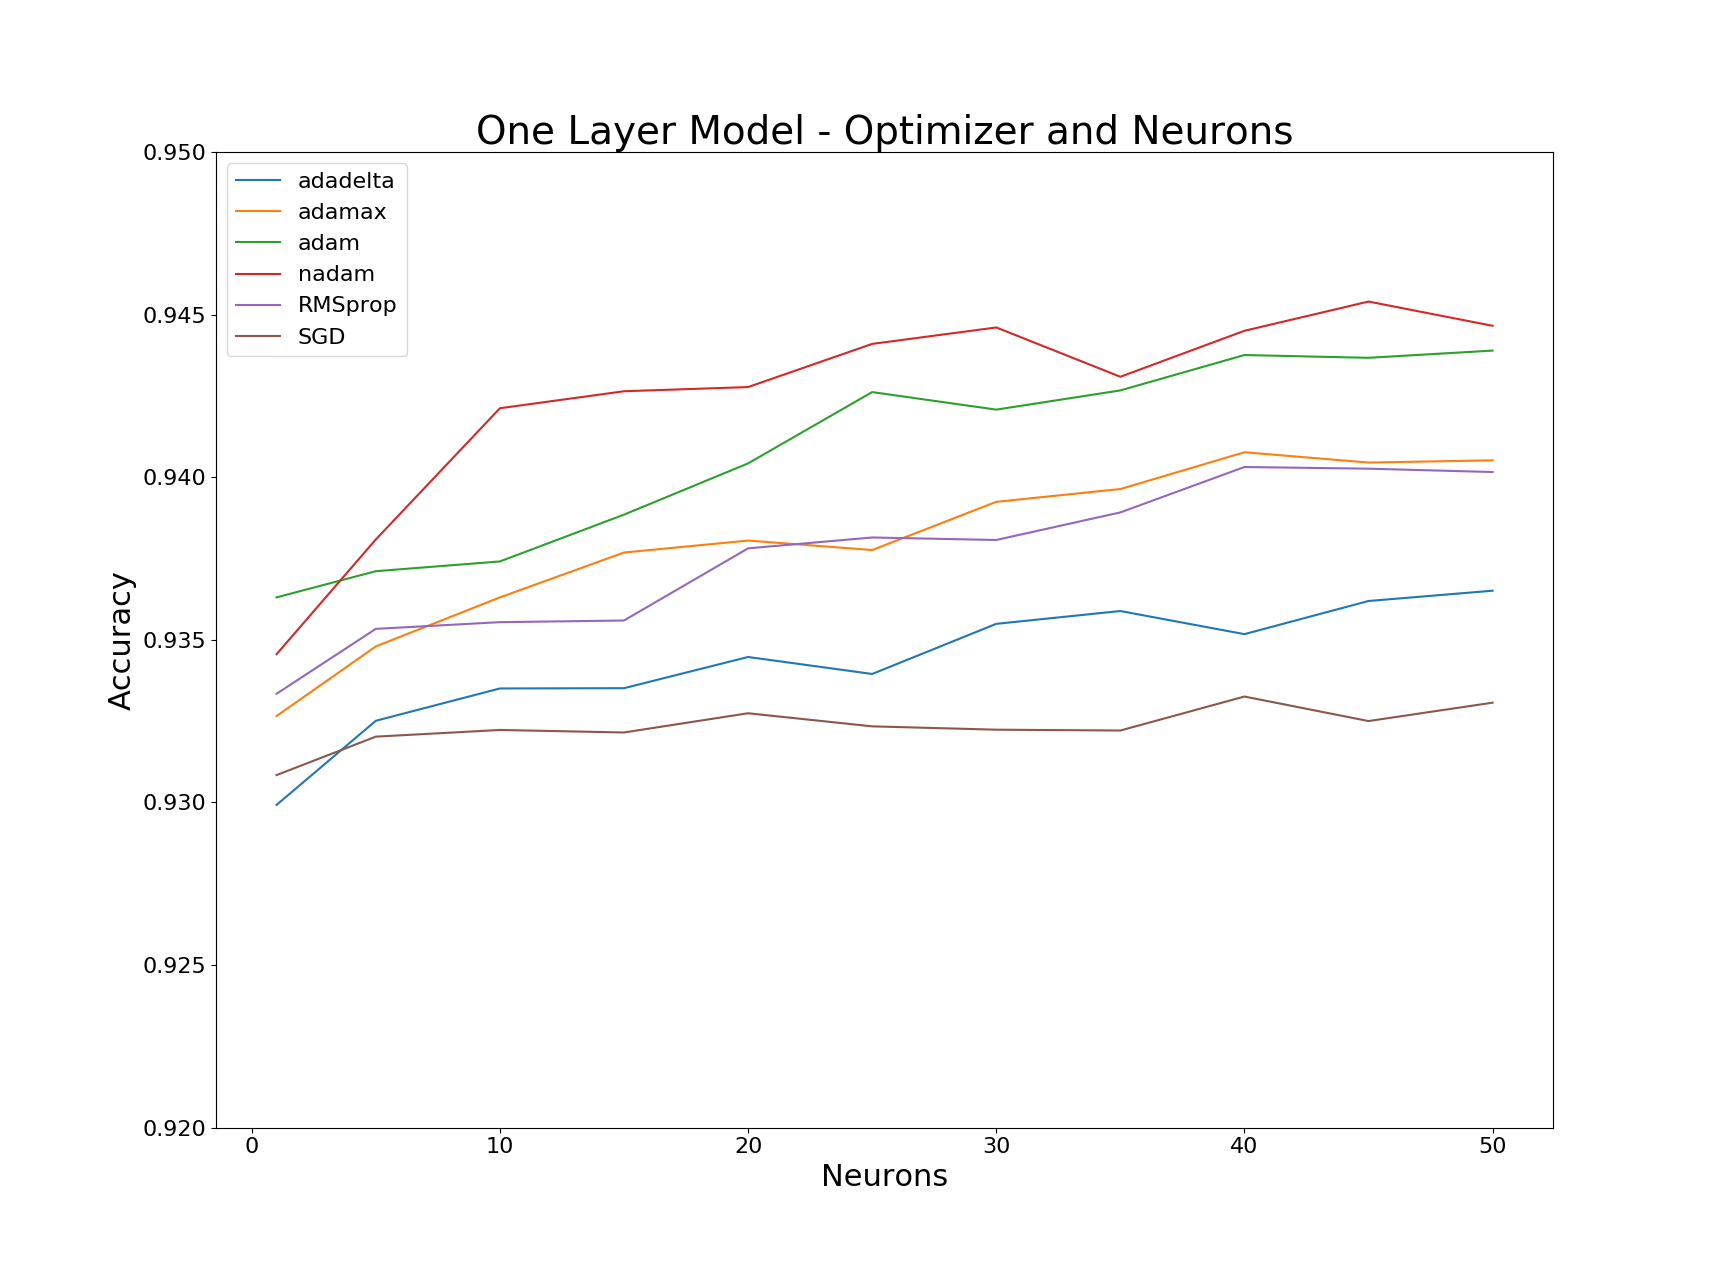
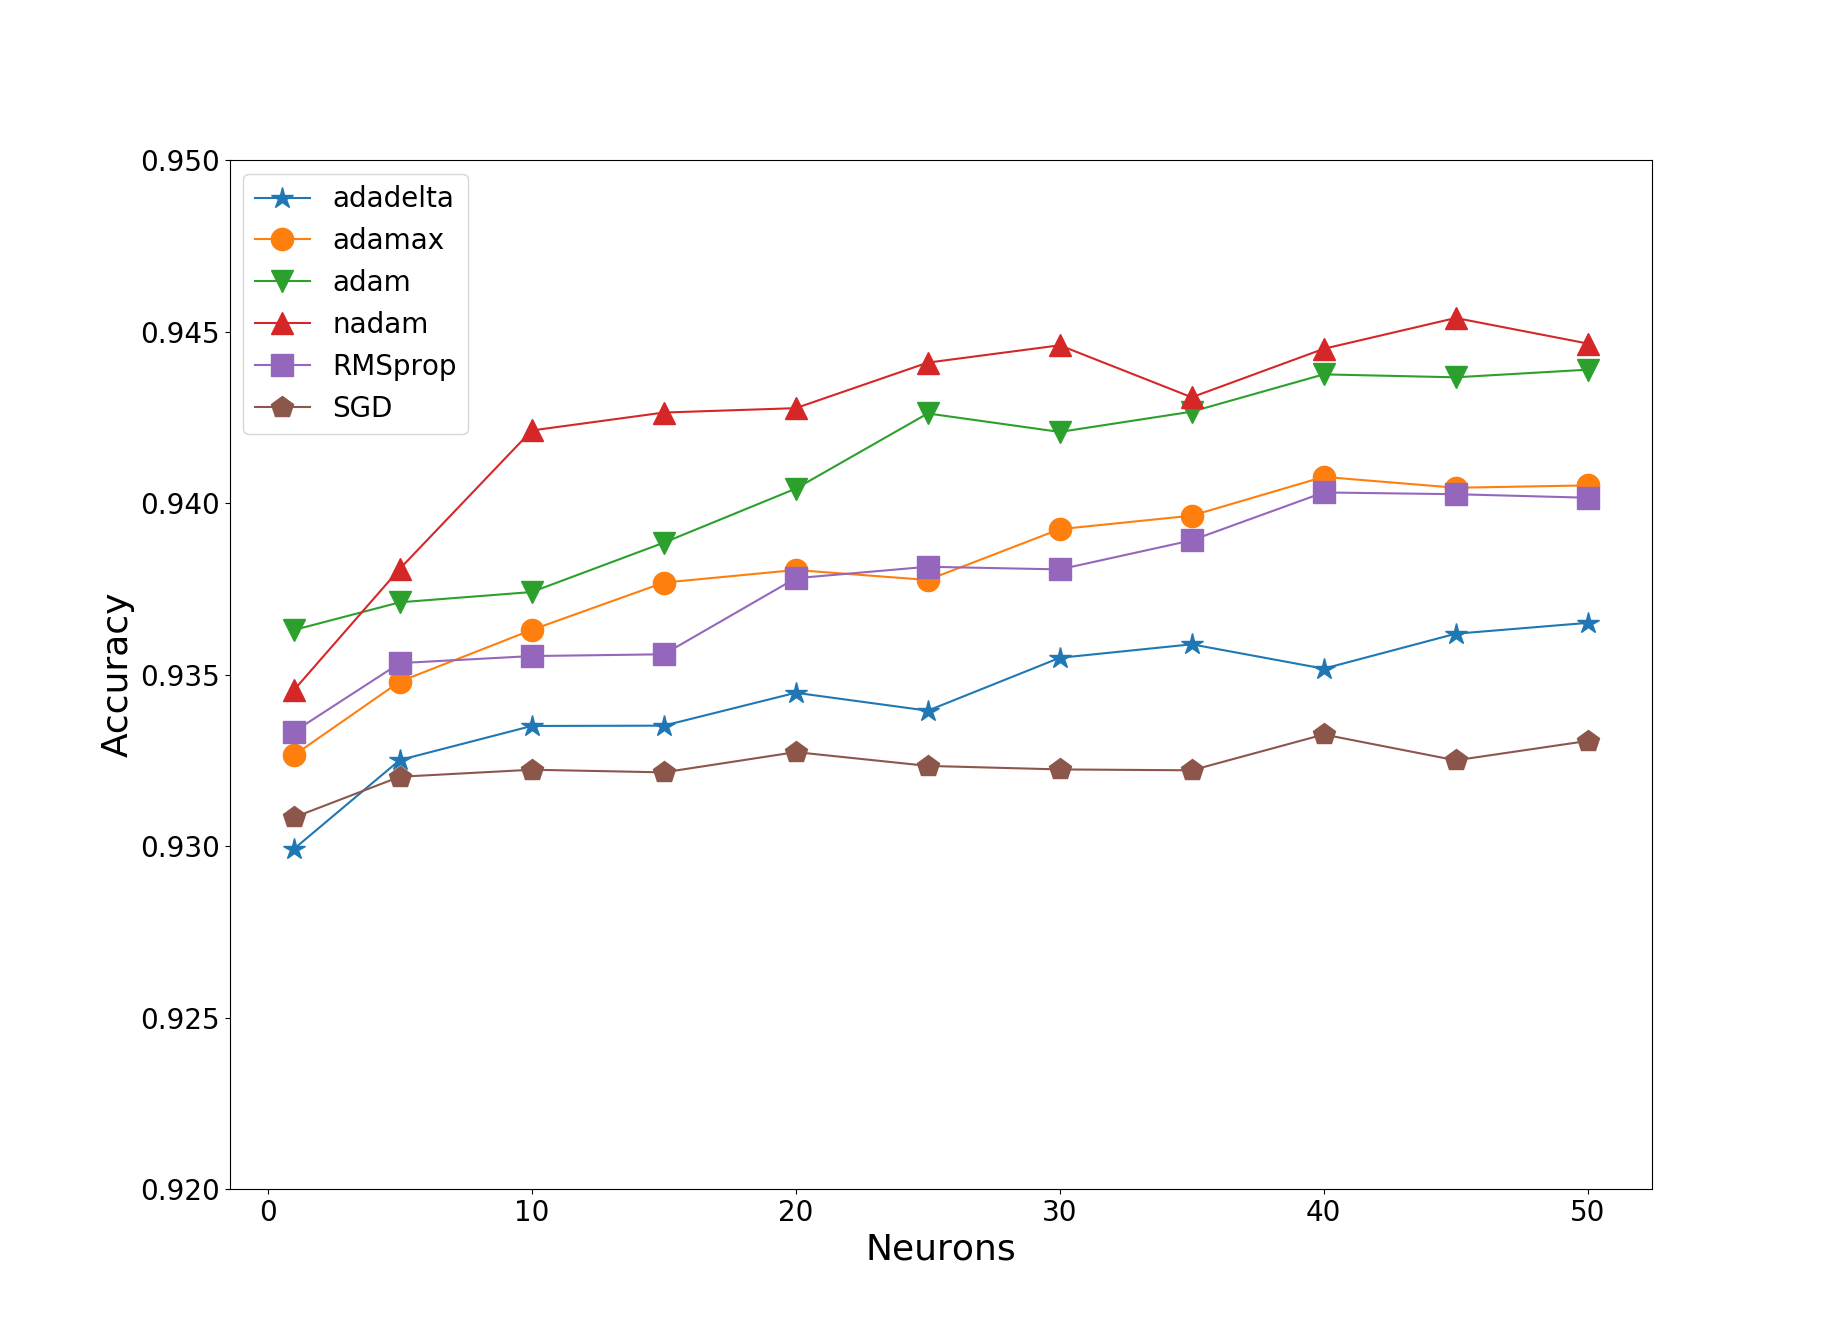
redid graph scripts and figures

diff --git a/Visualization/neurons_acc_2d.py b/Visualization/neurons_acc_2d.py
@@ -1,5 +1,6 @@
 import pandas
 import matplotlib.pyplot as plt
+from matplotlib.lines import Line2D
 from mpl_toolkits.mplot3d import axes3d
 from matplotlib import cm
 from pylab import meshgrid
@@ -44,21 +45,23 @@ def main():
     SGD_neurons = SGD_df.get("param_neurons")
     SGD_score = SGD_df.get("mean_test_score")
 
+
+
     #create line for each optimizer
-    adadelta = plt.plot(adadelta_neurons, adadelta_score, label='adadelta')
-    adamax = plt.plot(adamax_neurons, adamax_score, label='adamax')
-    adam = plt.plot(adam_neurons, adam_score, label='adam')
-    nadam = plt.plot(nadam_neurons, nadam_score, label='nadam')
-    RMSprop = plt.plot(RMS_neurons, RMS_score, label='RMSprop')
-    SGD = plt.plot(SGD_neurons, SGD_score, label='SGD')
+    adadelta = plt.plot(adadelta_neurons, adadelta_score, marker='*', markersize=16, label='adadelta')
+    adamax = plt.plot(adamax_neurons, adamax_score ,marker='o', markersize=16, label='adamax')
+    adam = plt.plot(adam_neurons, adam_score, marker='v', markersize=16, label='adam')
+    nadam = plt.plot(nadam_neurons, nadam_score, marker='^', markersize=16, label='nadam')
+    RMSprop = plt.plot(RMS_neurons, RMS_score, marker='s', markersize=16, label='RMSprop')
+    SGD = plt.plot(SGD_neurons, SGD_score, marker='p', markersize=16, label='SGD')
 
     #plot formatting
-    plt.legend(loc='upper left', fontsize = 16)
+    plt.legend(loc='upper left', fontsize = 20)
     plt.ylim([.92, .95])
-    plt.title('One Layer Model - Optimizer and Neurons', fontsize=28)
-    plt.xlabel('Neurons', fontsize = 22)
-    plt.ylabel('Accuracy', fontsize = 22)
-    plt.tick_params(labelsize=16)
+    #plt.title('One Layer Model - Optimizer and Neurons', fontsize=28)
+    plt.xlabel('Neurons', fontsize = 26)
+    plt.ylabel('Accuracy', fontsize = 26)
+    plt.tick_params(labelsize=20)
     #plt.legend([adadelta, adamax, adam, RMSprop, SGD]) #['adadelta', 'adamax', 'adam','nadam', 'RMSprop,', 'SGD'])
 
 

diff --git a/Visualization/finalCV_2d.py b/Visualization/finalCV_2d.py
@@ -26,17 +26,17 @@ def main():
     oneLayer_ratios = oneLayer_df.get("Ratio")
     oneLayer_acc = oneLayer_df.get("test_accuracy")
 
-    fourSame = plt.plot(fourSame_ratios, fourSame_acc, label='Four Same Size')
-    fourDec = plt.plot(fourDec_ratios, fourDec_acc, label='Four Decreasing Size')
-    oneLayer = plt.plot(oneLayer_ratios, oneLayer_acc, label='One Layer')
+    fourSame = plt.plot(fourSame_ratios, fourSame_acc, marker='s', markersize=14, label='Four Same Size')
+    fourDec = plt.plot(fourDec_ratios, fourDec_acc, marker='o', markersize=14, label='Four Decreasing Size')
+    oneLayer = plt.plot(oneLayer_ratios, oneLayer_acc, marker='^', markersize=14, label='One Layer')
 
     #plot formatting
-    plt.legend(loc='upper left', fontsize = 16)
+    plt.legend(loc='upper left', fontsize = 20)
     plt.ylim([.9,1.0])
-    plt.title('Training Ratio and Accuracy', fontsize = 28)
-    plt.xlabel('Training Ratio', fontsize = 22)
-    plt.ylabel('Accuracy', fontsize = 22)
-    plt.tick_params(labelsize=16)
+    #plt.title('Training Ratio and Accuracy', fontsize = 28)
+    plt.xlabel('Training Ratio', fontsize = 26)
+    plt.ylabel('Accuracy', fontsize = 26)
+    plt.tick_params(labelsize=20)
     plt.grid()
 
     plt.show()

diff --git a/Visualization/neurons_time_2d.py b/Visualization/neurons_time_2d.py
@@ -26,17 +26,17 @@ def main():
     oneLayer_neurons = oneLayer_df.get("Neurons")
     oneLayer_time = oneLayer_df.get("Time")
 
-    fourSame = plt.plot(fourSame_neurons, fourSame_time, label='Four Same Size')
-    fourDec = plt.plot(fourDec_neurons, fourDec_time, label='Four Decreasing Size')
-    oneLayer = plt.plot(oneLayer_neurons, oneLayer_time, label='One Layer')
+    fourSame = plt.plot(fourSame_neurons, fourSame_time, marker='s', markersize=14, label='Four Same Size')
+    fourDec = plt.plot(fourDec_neurons, fourDec_time, marker='o', markersize=14, label='Four Decreasing Size')
+    oneLayer = plt.plot(oneLayer_neurons, oneLayer_time, marker='^', markersize=14, label='One Layer')
 
     #plot formatting
-    plt.legend(loc='upper left', fontsize = 16)
+    plt.legend(loc='upper left', fontsize = 20)
     plt.ylim([0,500])
-    plt.title('Number of Neurons and Training Time', fontsize = 28)
-    plt.xlabel('Neurons', fontsize = 22)
-    plt.ylabel('Time', fontsize = 22)
-    plt.tick_params(labelsize=16)
+    #plt.title('Number of Neurons and Training Time', fontsize = 28)
+    plt.xlabel('Neurons', fontsize = 26)
+    plt.ylabel('Time', fontsize = 26)
+    plt.tick_params(labelsize=20)
     plt.grid()
 
     plt.show()
